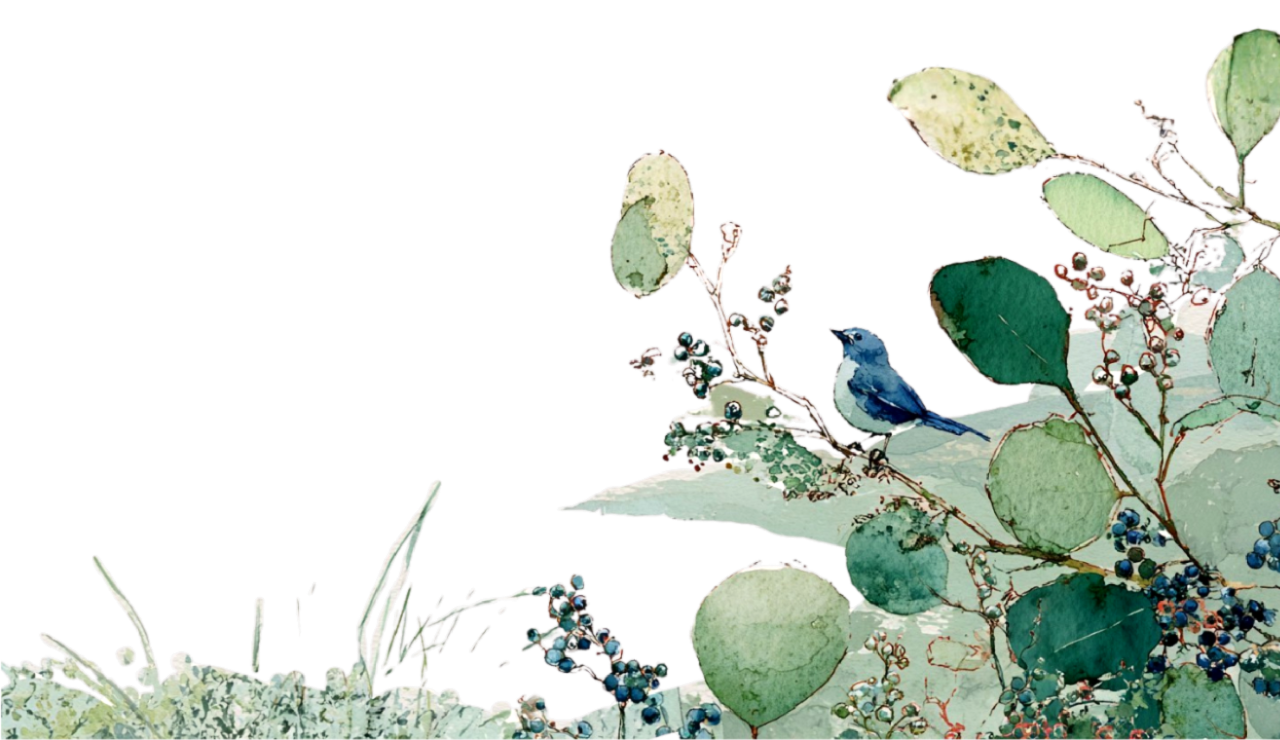
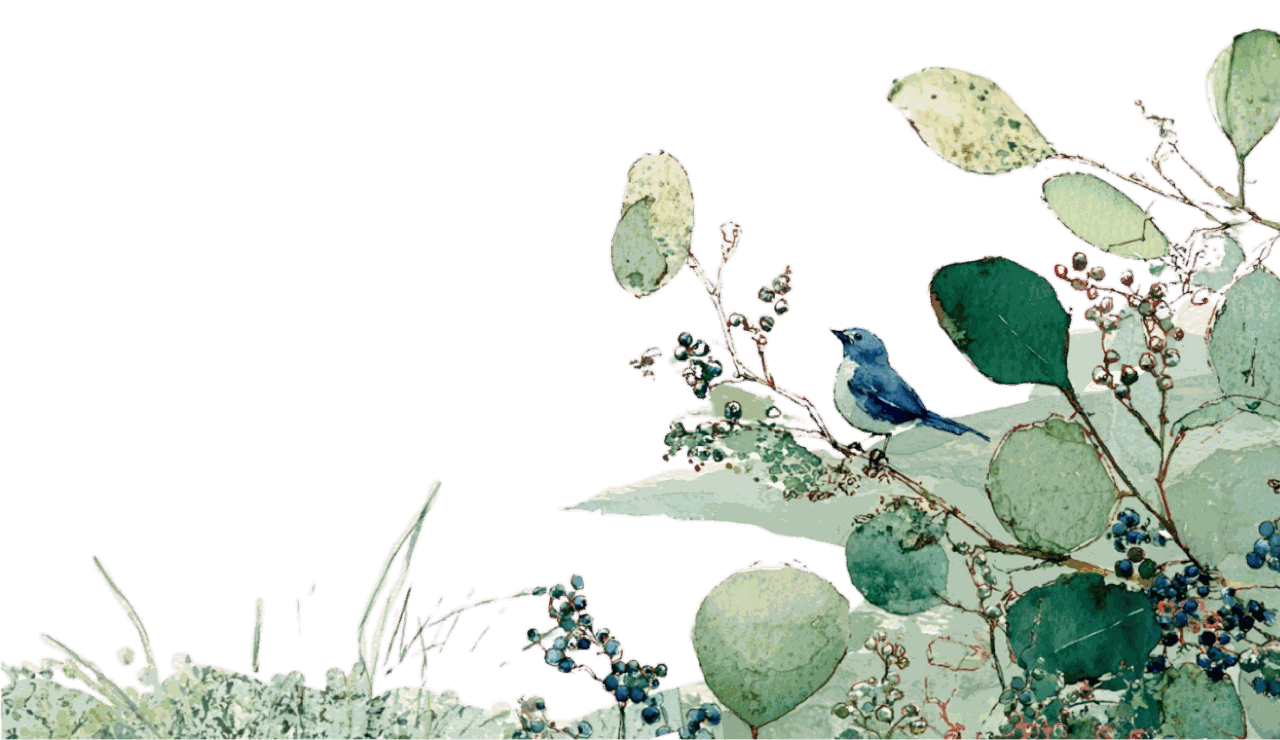
Compress oversized illustrations (18MB -> 2.6MB)
Opaque art becomes JPEG, transparent art becomes palette PNG; the login
illustration alone drops from 1.3MB to 160KB.

diff --git a/frontend/src/pages/Resources.jsx b/frontend/src/pages/Resources.jsx
@@ -1,10 +1,10 @@
 import { useEffect, useRef, useState } from "react";
 import { ArrowRight, X } from "lucide-react";
 import resourcesHero from "@/assets/resources-hero.png";
-import copingIceInHand from "@/assets/coping-ice-in-hand.png";
-import copingColdWaterSplash from "@/assets/coping-cold-water-splash.png";
-import copingButterflyHug from "@/assets/coping-butterfly-hug.png";
-import copingGrounding from "@/assets/coping-grounding.png";
+import copingIceInHand from "@/assets/coping-ice-in-hand.jpg";
+import copingColdWaterSplash from "@/assets/coping-cold-water-splash.jpg";
+import copingButterflyHug from "@/assets/coping-butterfly-hug.jpg";
+import copingGrounding from "@/assets/coping-grounding.jpg";
 import { useDocumentTitle } from "@/lib/useDocumentTitle";
 
 /* ---------- content ---------- */

diff --git a/frontend/src/pages/ResetPassword.jsx b/frontend/src/pages/ResetPassword.jsx
@@ -5,7 +5,7 @@ import { Eye, EyeOff, ArrowLeft } from "lucide-react";
 import { authService } from "@/services/auth.service";
 import { toAppError } from "@/lib/errors";
 import { RESET_PASSWORD } from "@/constants/testIds/auth";
-import loginIllustration from "@/assets/login-illustration.png";
+import loginIllustration from "@/assets/login-illustration.jpg";
 
 const inputClass =
   "mt-2 w-full rounded-xl bg-transparent border border-bb-soft-light/40 px-4 py-3 text-bb-soft-light placeholder:text-bb-soft-light/40 focus:border-bb-soft-light/80 outline-none transition-colors";

diff --git a/frontend/src/pages/AboutTherapy.jsx b/frontend/src/pages/AboutTherapy.jsx
@@ -3,7 +3,7 @@ import ConsultationDialog from "@/components/ConsultationDialog";
 import { ArrowRight, Check, X } from "lucide-react";
 import aboutTherapyHero from "@/assets/about-therapy-hero.png";
 import whatIsTherapyImg from "@/assets/what-is-therapy.png";
-import readyToBeginImg from "@/assets/ready-to-begin.png";
+import readyToBeginImg from "@/assets/ready-to-begin.jpg";
 import sessionMeetImg from "@/assets/session-meet.png";
 import sessionShareImg from "@/assets/session-share.png";
 import sessionReflectImg from "@/assets/session-reflect.png";

diff --git a/frontend/src/pages/Login.jsx b/frontend/src/pages/Login.jsx
@@ -5,7 +5,7 @@ import { toast } from "sonner";
 import { Eye, EyeOff, ArrowLeft } from "lucide-react";
 import { http } from "@/lib/http";
 import { toAppError } from "@/lib/errors";
-import loginIllustration from "@/assets/login-illustration.png";
+import loginIllustration from "@/assets/login-illustration.jpg";
 
 const inputClass =
   "mt-2 w-full rounded-xl bg-transparent border border-bb-soft-light/40 px-4 py-3 text-bb-soft-light placeholder:text-bb-soft-light/40 focus:border-bb-soft-light/80 outline-none transition-colors";
